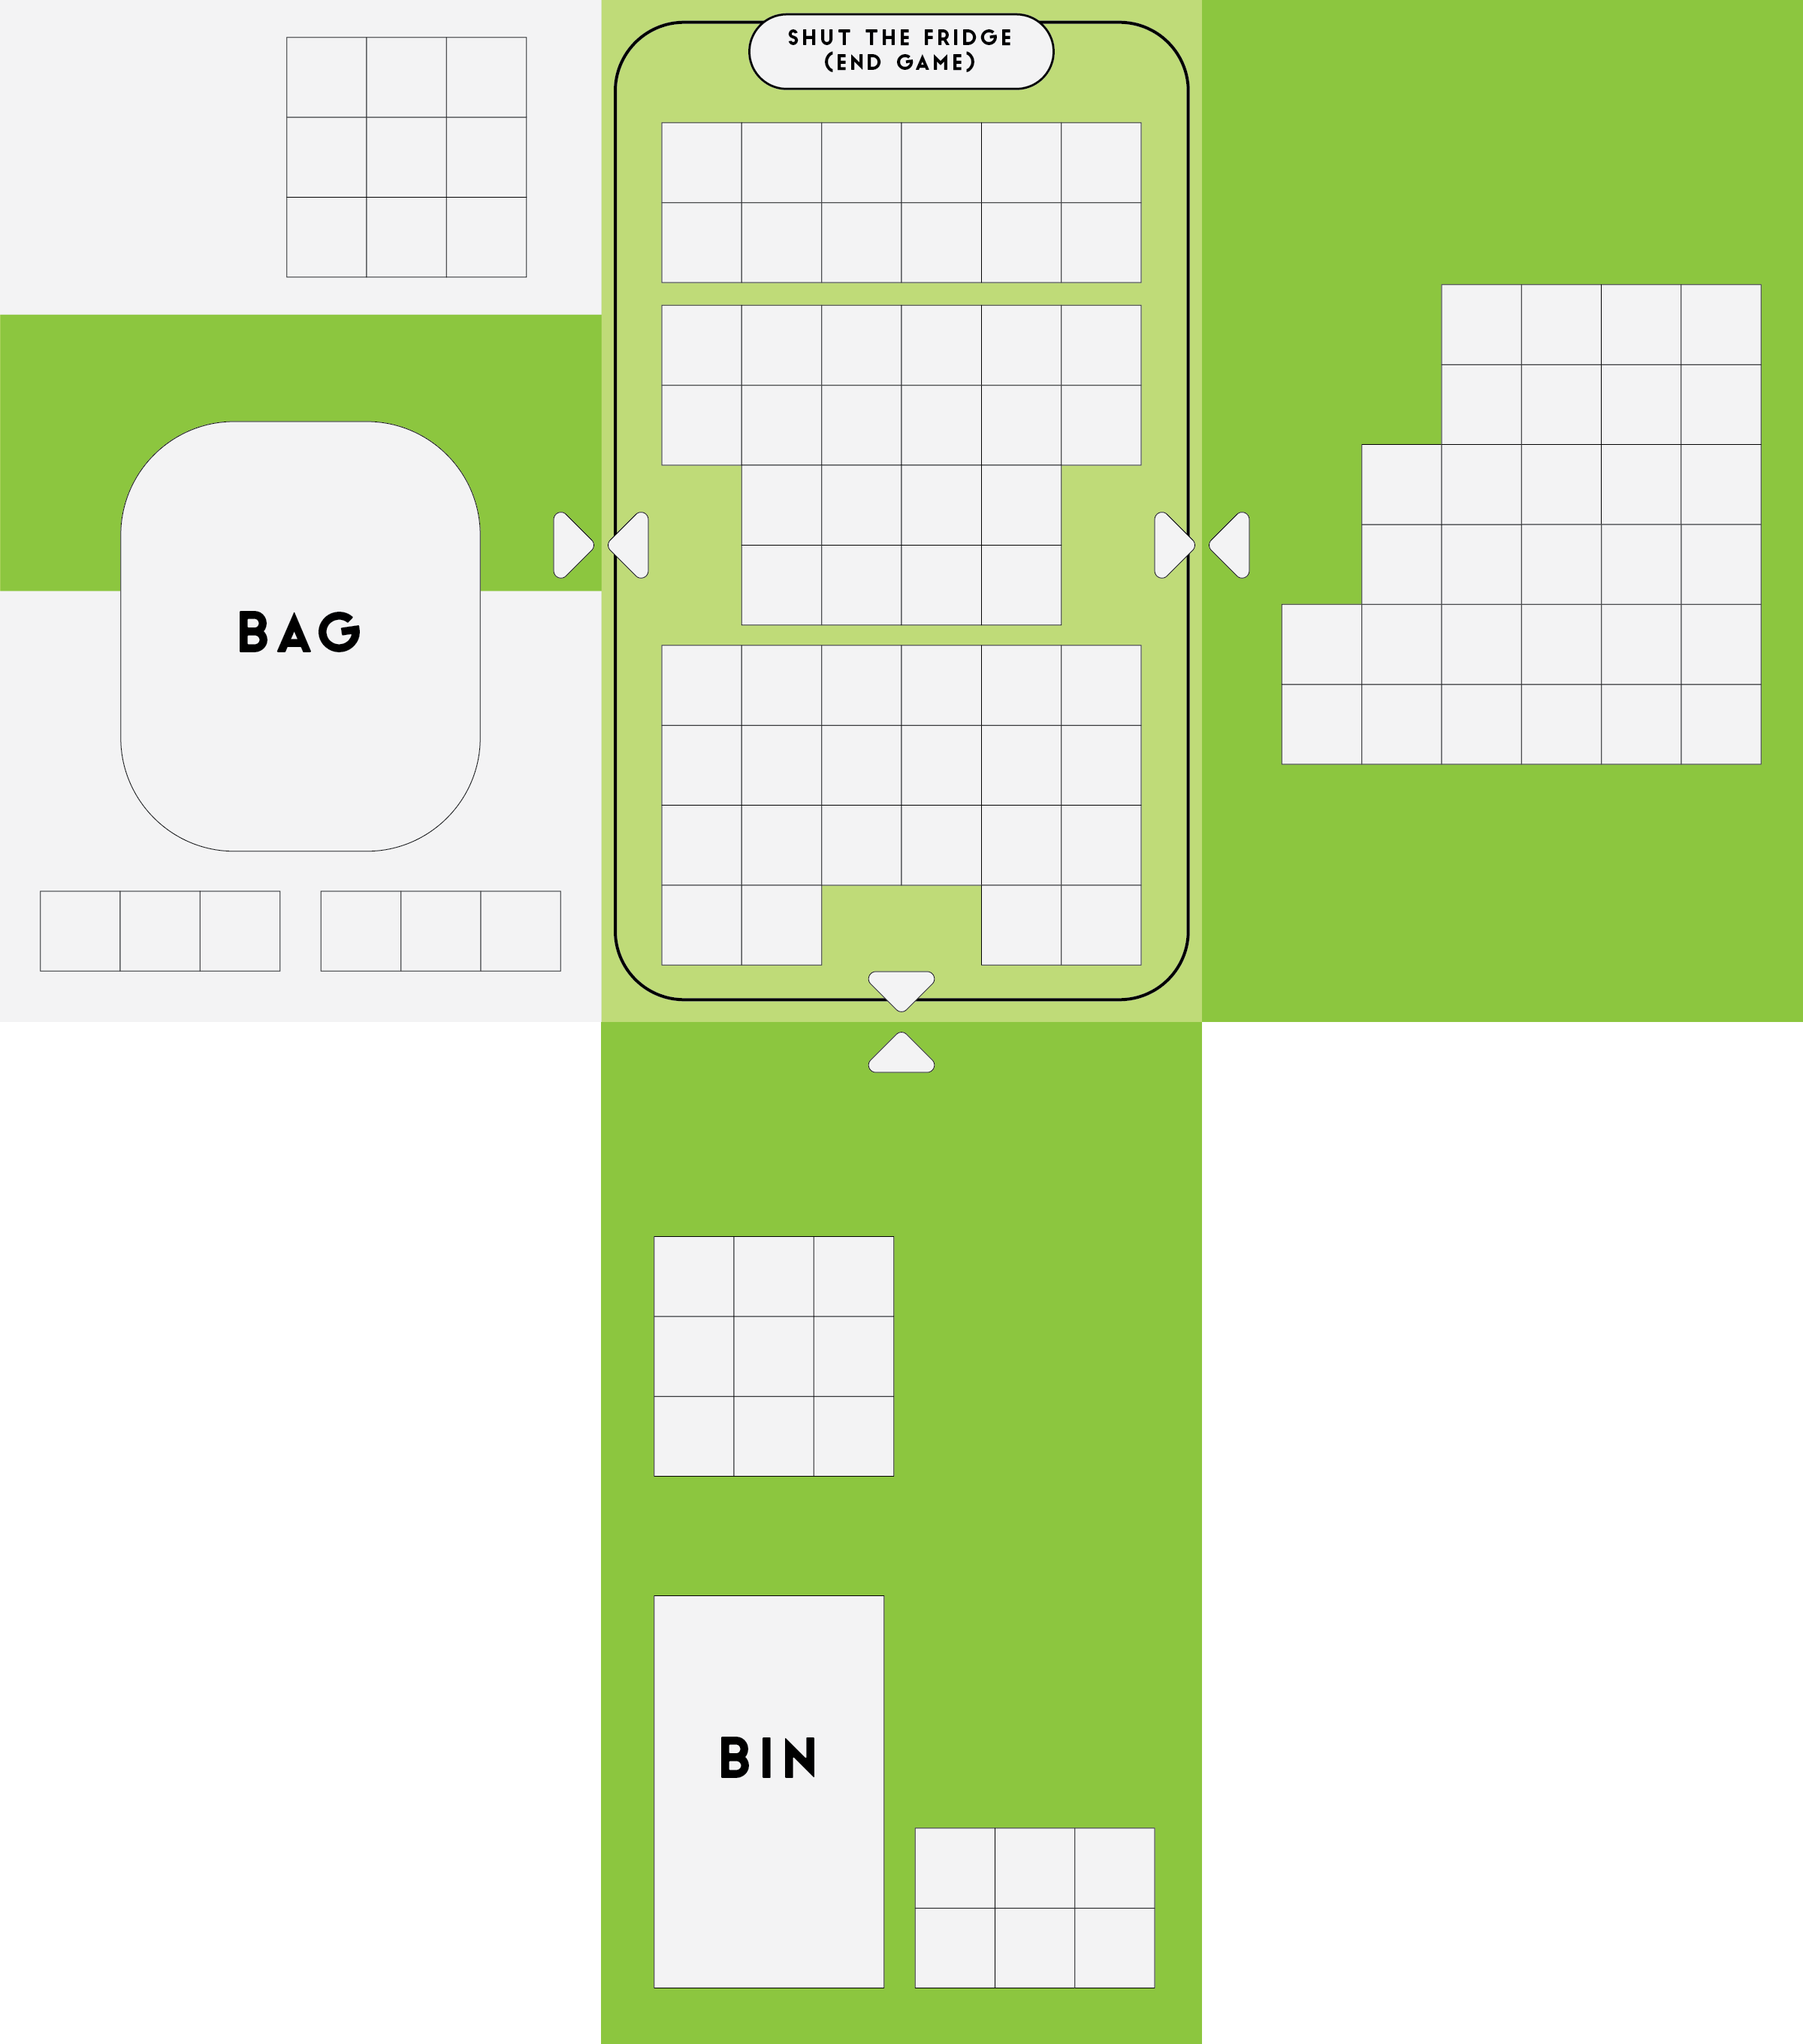
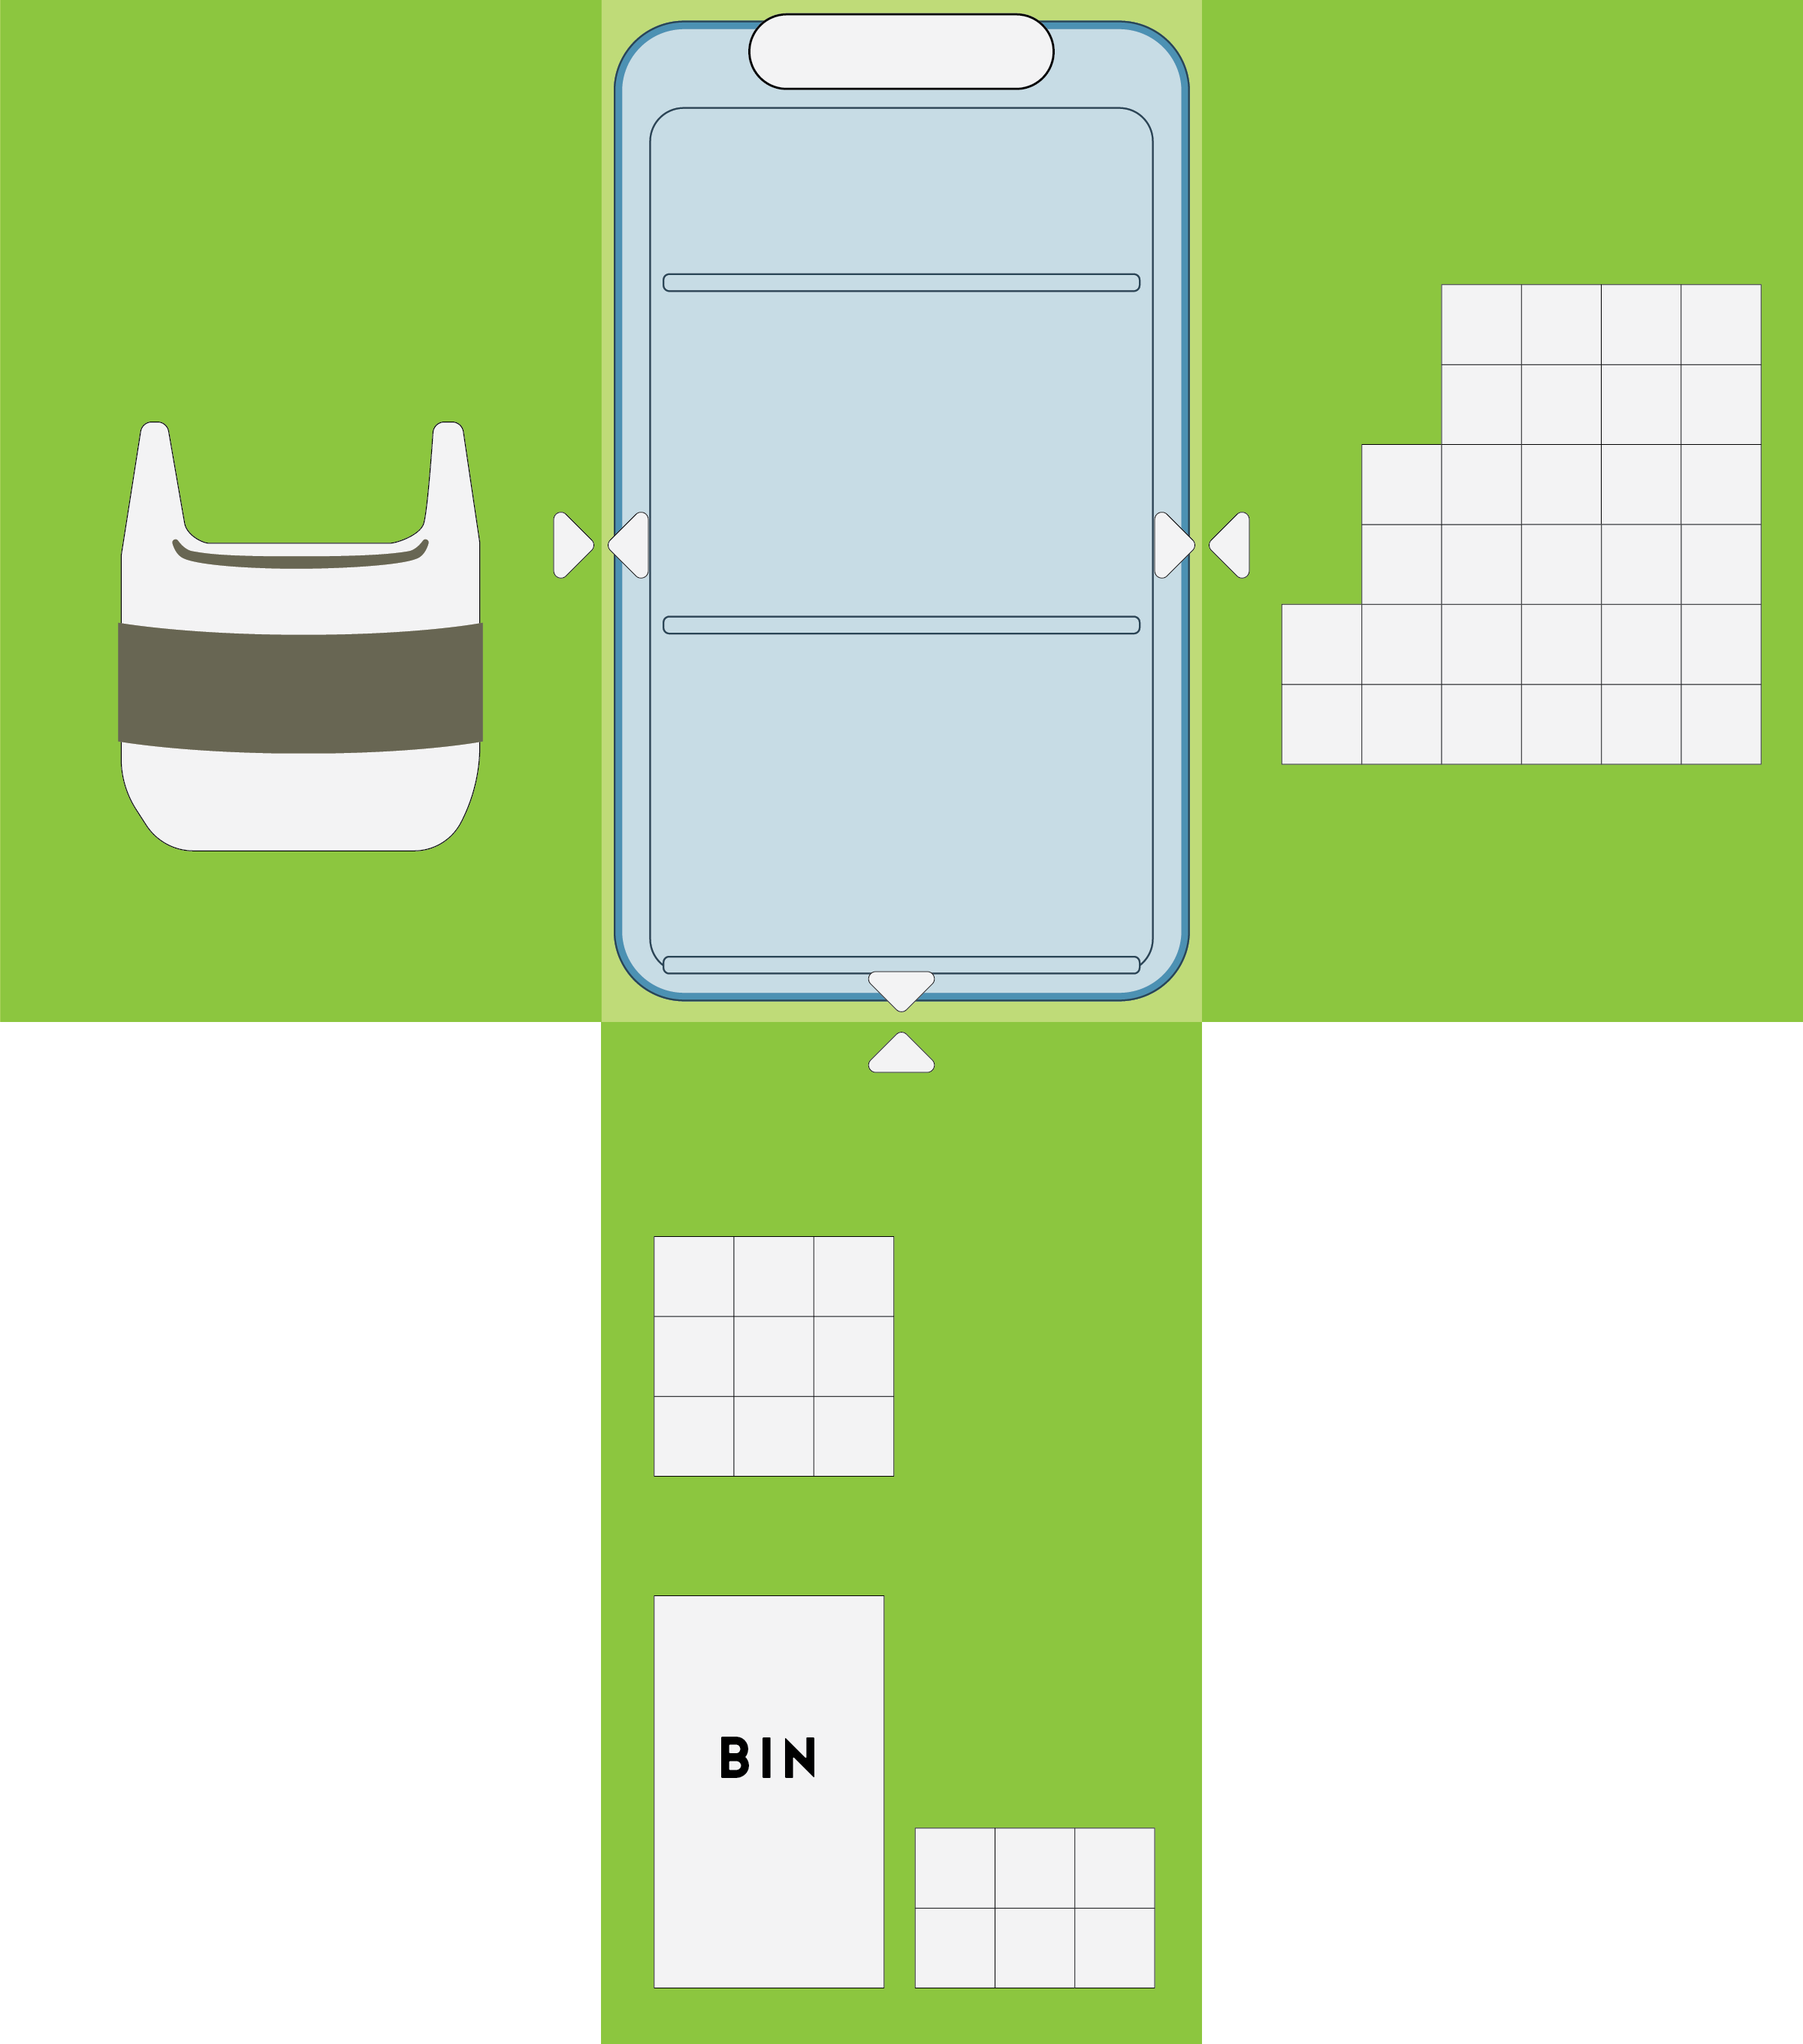
Shelf measurements

Changed region(s): [[0.0, 0.0, 0.6875, 0.5]]

diff --git a/src/scripts/state/game.ts b/src/scripts/state/game.ts
@@ -9,7 +9,8 @@ module LD43.State {
     bg: Phaser.Sprite;
     buttons: {
       bagR: Phaser.Button,
-      fridgeL: Phaser.Button
+      fridgeL: Phaser.Button,
+      fridgeR: Phaser.Button
     };
     location: number;
 
@@ -31,6 +32,7 @@ module LD43.State {
 
     currentFood: Entity.Food;
     markerGroup: Phaser.Group;
+    moveRecalcRequired: boolean = true;
 
     create() {
       this.bg = this.add.sprite(0, 0, 'bg');
@@ -38,19 +40,29 @@ module LD43.State {
       this.game.camera.bounds.height = this.bg.height;
 
       this.buttons = {
-        bagR: new Phaser.Button(this.game, 740, 500, 'arrow', this.panTo.bind(this, Game.LOCATION_FRIDGE)),
-        fridgeL: new Phaser.Button(this.game, 810, 500, 'arrow', this.panTo.bind(this, Game.LOCATION_BAG))
+        bagR: new Phaser.Button(this.game, 763, 725, 'arrow', this.panTo.bind(this, Game.LOCATION_FRIDGE)),
+        fridgeL: new Phaser.Button(this.game, 836, 725, 'arrow', this.panTo.bind(this, Game.LOCATION_BAG)),
+        fridgeR: new Phaser.Button(this.game, 1563, 725, 'arrow', this.panTo.bind(this, Game.LOCATION_BAG))
       };
 
       for (const button in this.buttons) {
-        this.add.existing(this.buttons[button]);
+        let b = this.buttons[button];
+
+        b.anchor.set(0.5);
+        this.add.existing(b);
       }
+
+      this.buttons.fridgeL.scale.x = -1;
+
+      const size6 = (6 * Entity.Food.UNIT_SIZE),
+        size4 = (4 * Entity.Food.UNIT_SIZE),
+        shelfX = 880;
 
       this.storageLocation = {
         fridge: {
-          top: new Phaser.Rectangle(881, 163, 638, 208),
-          middle: new Phaser.Rectangle(881, 163, 638, 208),
-          bottom: new Phaser.Rectangle(881, 163, 638, 208)
+          top: new Phaser.Rectangle(shelfX, 163, size6, (2 * Entity.Food.UNIT_SIZE)),
+          middle: new Phaser.Rectangle(shelfX, 406, size6, size4),
+          bottom: new Phaser.Rectangle(shelfX, 858, size6, size4)
         }
       };
 
@@ -125,32 +137,42 @@ module LD43.State {
 
     onMove(pointer: Phaser.Pointer) {
       const px = pointer.x + this.camera.x,
-            py = pointer.y + this.camera.y;
+        py = pointer.y + this.camera.y;
+
+      let storageLocation,
+        storage;
 
       switch (this.location) {
         case Game.LOCATION_FRIDGE:
 
           if (this.storageLocation.fridge.top.contains(px, py)) {
-            // get map
-
-            // get closest cell to pointer
-
-            let x = Math.floor((px - this.storageLocation.fridge.top.x) / Entity.Food.UNIT_SIZE),
-                y = Math.floor((py - this.storageLocation.fridge.top.y) / Entity.Food.UNIT_SIZE);
-
-            if (this.storage.fridge.top[x][y] === 1) {
-              this.renderPlaceMarkerAt(this.storageLocation.fridge.top, x, y);
-            }
-
-            // top shelf
+            storageLocation = this.storageLocation.fridge.top;
+            storage = this.storage.fridge.top;
+          } else if (this.storageLocation.fridge.middle.contains(px, py)) {
+            storageLocation = this.storageLocation.fridge.middle;
+            storage = this.storage.fridge.middle;
           } else {
-            // bottom shelf
+            storageLocation = this.storageLocation.fridge.bottom;
+            storage = this.storage.fridge.bottom;
+          }
+
+          // get closest cell to pointer
+
+          let x = Math.floor((px - storageLocation.x) / Entity.Food.UNIT_SIZE),
+            y = Math.floor((py - storageLocation.y) / Entity.Food.UNIT_SIZE),
+            cell = storage[x][y];
+
+          if (cell === 1) {
+            // only attempt marker placement if arrow above valid cell
+            this.renderPlaceMarkerAt(storageLocation, x, y);
           }
           break;
       }
     }
 
     renderPlaceMarkerAt(storageLocation, x, y) {
+      // todo, optimise
+
       this.markerGroup.x = storageLocation.x + (x * Entity.Food.UNIT_SIZE);
       this.markerGroup.y = storageLocation.y + (y * Entity.Food.UNIT_SIZE);
     }

diff --git a/src/scripts/entity/food.ts b/src/scripts/entity/food.ts
@@ -1,6 +1,6 @@
 module LD43.Entity {
   export class Food extends Phaser.Sprite {
-    static UNIT_SIZE: number = 109; // GOD DAMN YOU ANNA!
+    static UNIT_SIZE: number = 106;
 
     game: Game;
 
